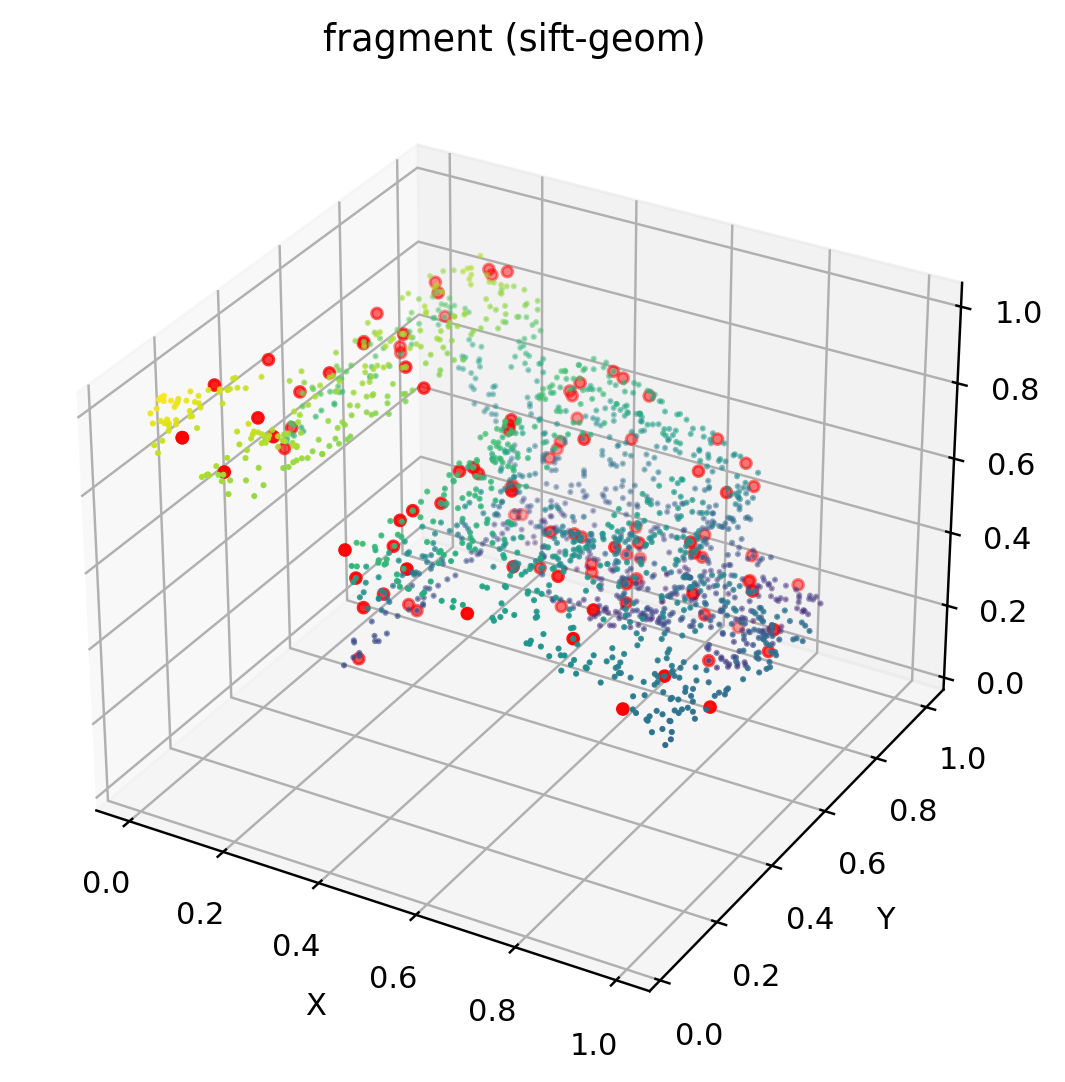
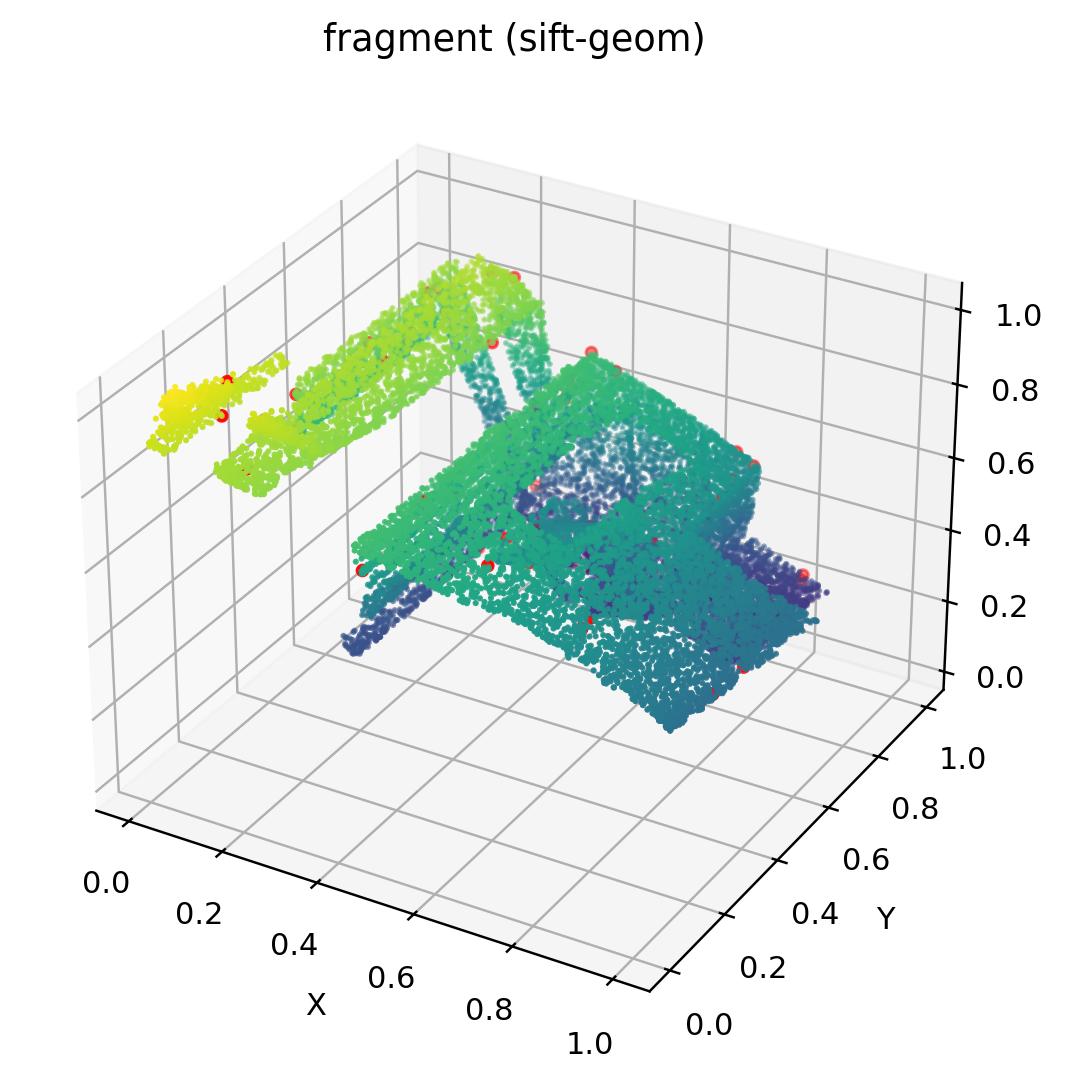
format and slight tuning

diff --git a/run_all.py b/run_all.py
@@ -271,9 +271,7 @@ def run_3d_pc(
     else:
         raise ValueError(f"Unknown PC detector: {pc_detector}")
 
-    print(
-        f"  sift-{pc_detector:>5} pc/{split}/{name:>15} | keypoints: {len(keypoints):>4}"
-    )
+    print(f"  sift-{pc_detector} pc/{split}/{name:>15} | keypoints: {len(keypoints):>4}")
 
     out_path = out_root / "sift" / "pointcloud" / split / f"{name}.png"
     out_path.parent.mkdir(parents=True, exist_ok=True)

diff --git a/src/pointcloud/params.py b/src/pointcloud/params.py
@@ -66,7 +66,7 @@ class HarrisPCParams:
     neighborhood: str = "knn"
     k_neighbors: int = 170
     radius: float = 0.05
-    threshold_rel: float = 0.01
+    threshold_rel: float = 0.02
     response_mode: str = "positive"
     nms_radius: float = 0.0
     max_keypoints: int = 500